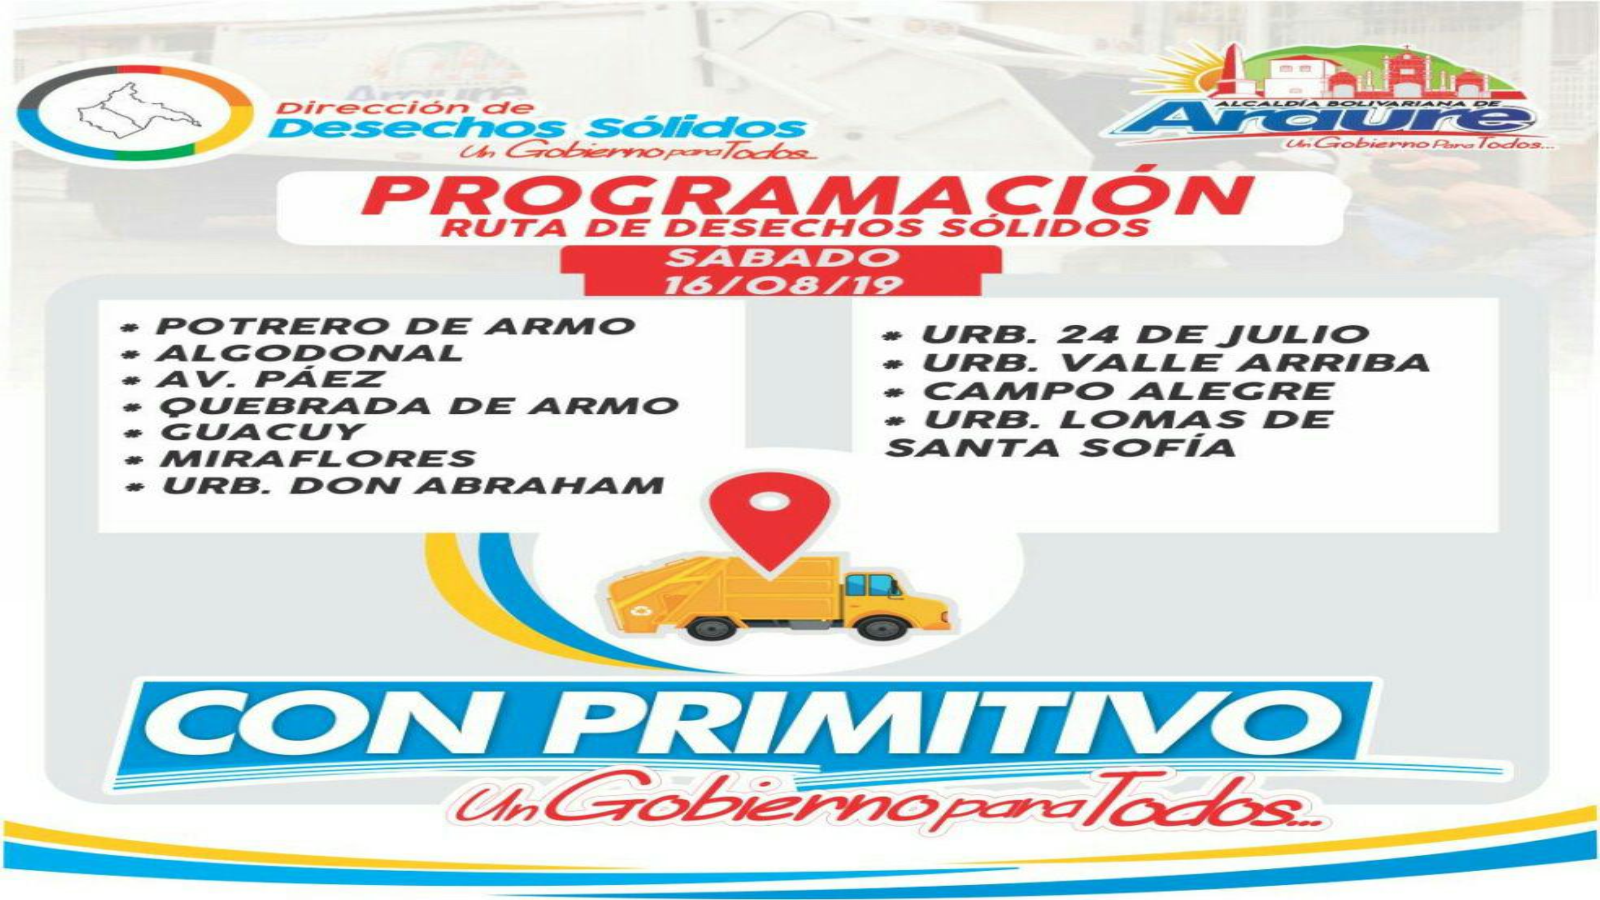
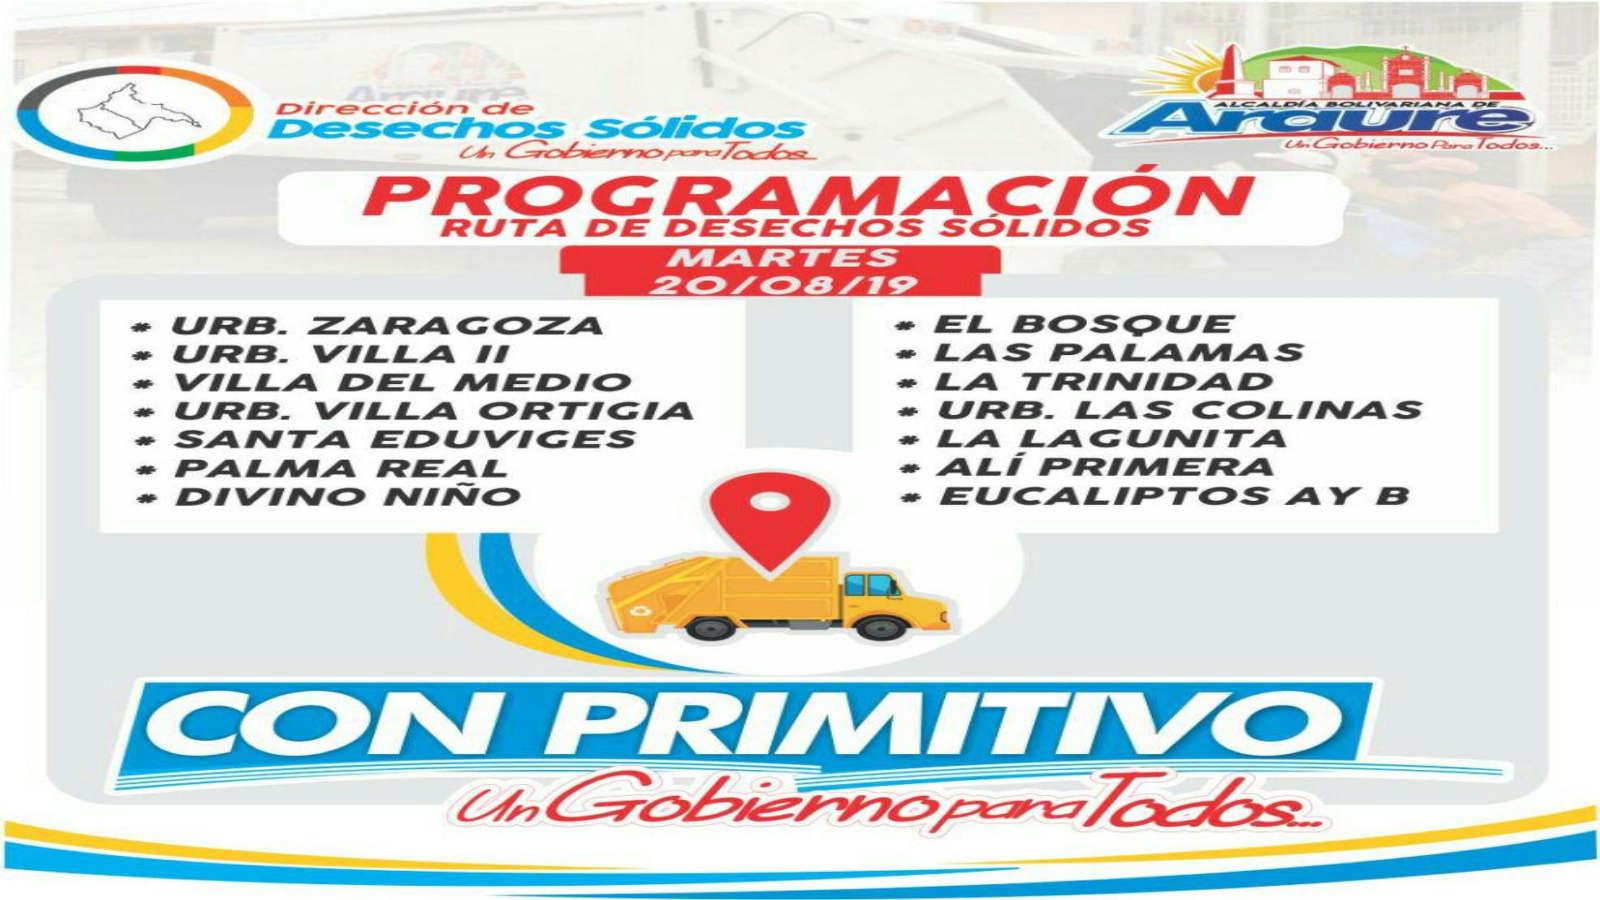
aviso del aseo

diff --git a/html/index.html b/html/index.html
@@ -234,7 +234,7 @@
                         <div class="flexslider left">
                             <ul class="slides">
                           <li>     <!-- Slide 1-->
-                                <img src="./img/Avisos_importantes/2019/redoma.png">
+                                <img src="./img/Avisos_importantes/2019/aseo.png">
                                     <div class="meta">
                                 </div>
                                </li>
@@ -252,14 +252,14 @@
                                  </div>
                                 </li>
                      <li>           <!--     Slide 4-->
-                               <img src="./img/Avisos_importantes/2019/pasos.png">
+                               <img src="./img/Avisos_importantes/2019/redoma.png">
                                      <!--<div class="meta">
                            <h1>Lorem ipsum dolor sit amet, consectetur.</h1>
                                         <h2>Lorem ipsum dolor sit.</h2>
                                   </div>-->
                                 </li>
                               <!--<li>  Slide 5
-                                 <img src="./img/Avisos_importantes/2019/festival.png">
+                                 <img src="./img/Avisos_importantes/2019/.png">
                                     <div class="meta">
                                     </div>
                                 </li>-->
